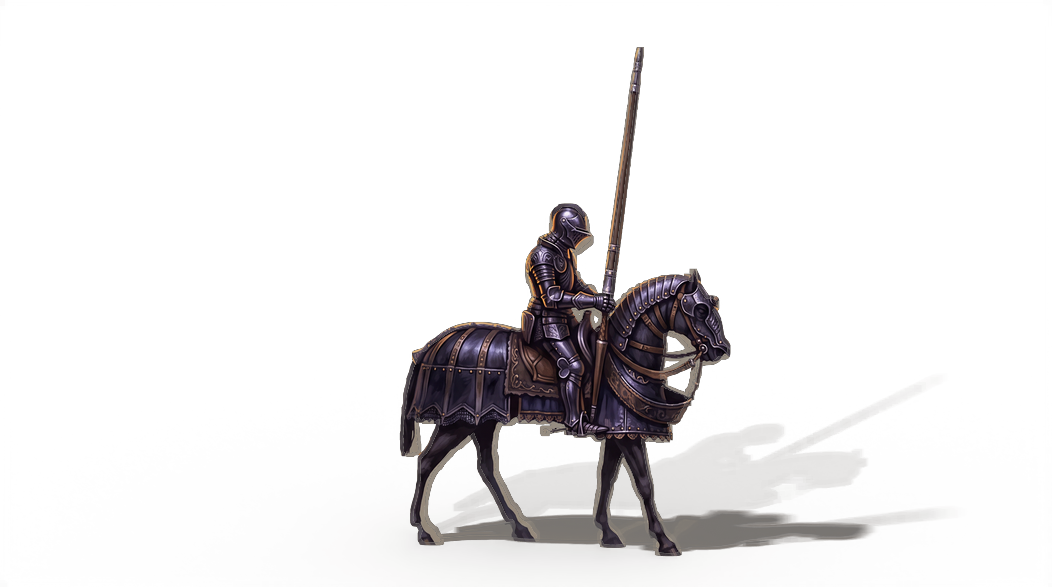
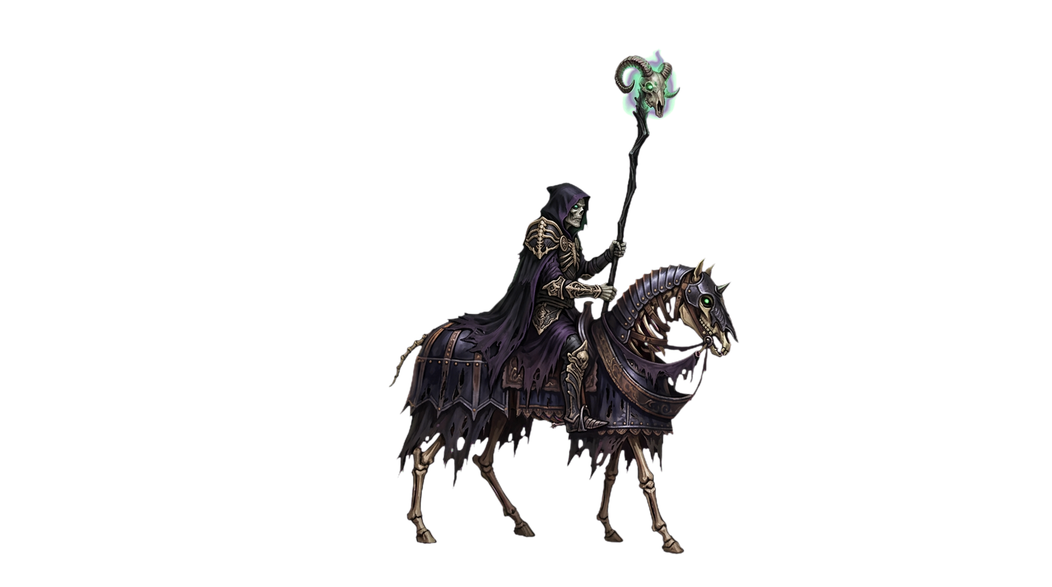
Battle stack spacing and badges, team-coloured queue, build card costs, hero backpack
- Battle: the middle deploy slot is staggered one hex forward, figures are a
  little smaller, count badges sit at the stack's front foot above all labels,
  damage labels step aside from badges, the turn queue is team-tinted with a
  larger active slot, and slain stacks leave the queue immediately.
- Necropolis battle hero repainted as a necromancer on a skeletal horse.
- Build dialog: cards show cost (shortfalls in red) and muted status strips;
  the hover panel sits beside the card.
- Hero screen: second ring socket, backpack row, larger text.
- Spellbook close seal moved; map hover drawn as corner brackets.

Changed region(s): [[0.365, 0.092, 0.8821, 0.9506]]

diff --git a/tools/art/hero_battle_paint.py b/tools/art/hero_battle_paint.py
@@ -1,0 +1,74 @@
+"""Necropolis battle hero: a necromancer lord on a skeletal horse (it was a recoloured copy of the Haven knight).
+python tools/art/hero_battle_paint.py paint   ->  imagegen/batch18/out/battle_necropolis.png (over the old rider on magenta)
+python tools/art/hero_battle_paint.py ingest  ->  assets/heroes/battle_necropolis.png (same canvas and feet line as before;
+                                                  the old sprite is kept in tools/art/raw/heroes/)"""
+import os, sys, shutil
+import numpy as np
+from PIL import Image
+
+sys.path.insert(0, os.path.dirname(__file__))
+from pose_paint import key_out, drop_specks
+
+BATCH = "imagegen/batch18"
+SRC = "assets/heroes/battle_necropolis.png"
+OLD = "tools/art/raw/heroes/battle_necropolis_knight.png"
+PROMPT = ("Repaint this rider as the lord of an undead army in a fantasy strategy game, same side view facing right, "
+          "same size, same position and same pose: a gaunt necromancer lord in a tattered black and deep purple hooded "
+          "cloak over dark bone-trimmed armour, a pale skull-like face under the hood, holding upright a tall black "
+          "staff topped with a horned skull and a faint green glow, riding a skeletal undead war horse with bare "
+          "ribs and leg bones, ragged black barding, and small glowing green eyes. Hand-painted fantasy game art with "
+          "crisp edges and rich detail, lit from the upper left. Keep the background flat pure magenta (#FF00FF), "
+          "no ground, no shadow, no text.")
+
+
+def _figure():
+    im = Image.open(OLD if os.path.exists(OLD) else SRC).convert("RGBA")
+    return im
+
+
+def paint():
+    import vertex_paint as vp
+    from google import genai
+    os.makedirs(f"{BATCH}/in", exist_ok=True)
+    os.makedirs(f"{BATCH}/out", exist_ok=True)
+    os.makedirs(os.path.dirname(OLD), exist_ok=True)
+    if not os.path.exists(OLD):
+        shutil.copy(SRC, OLD)
+    im = _figure()
+    a = np.asarray(im).copy()
+    a[..., 3] = np.where(a[..., 3] > 200, 255, 0)  # the rider only, not its cast shadow
+    fig = Image.fromarray(a)
+    x0, y0, x1, y1 = fig.getbbox()
+    pad = 60
+    crop = fig.crop((x0 - pad, y0 - pad, x1 + pad, y1 + pad))
+    bg = Image.new("RGBA", crop.size, (255, 0, 255, 255))
+    bg.alpha_composite(crop)
+    bg.convert("RGB").save(f"{BATCH}/in/battle_necropolis.png")
+    client = genai.Client(vertexai=True, project=vp.PROJECT, location=vp.LOCATION)
+    w, h = crop.size
+    img = vp.paint(client, "gemini-nano-banana-2.1", f"{BATCH}/in/battle_necropolis.png", PROMPT,
+                   "3:4" if w / h < 0.85 else ("1:1" if w / h < 1.15 else "4:3"), "1K")
+    if img:
+        img.save(f"{BATCH}/out/battle_necropolis.png")
+        print("done", img.size, "from", crop.size)
+
+
+def ingest():
+    old = _figure()
+    a = np.asarray(old)
+    ys, xs = np.nonzero(a[..., 3] > 200)
+    ox0, oy0, ox1, oy1 = xs.min(), ys.min(), xs.max(), ys.max()
+    new = drop_specks(key_out(Image.open(f"{BATCH}/out/battle_necropolis.png")))
+    new = new.crop(new.getbbox())
+    # same figure height and feet line as the old rider, centred on it
+    sc = (oy1 - oy0) / new.height
+    new = new.resize((max(1, round(new.width * sc)), oy1 - oy0), Image.LANCZOS)
+    out = Image.new("RGBA", old.size, (0, 0, 0, 0))
+    cx = (ox0 + ox1) // 2
+    out.alpha_composite(new, (max(0, cx - new.width // 2), int(oy0)))
+    out.save(SRC)
+    print("  heroes/battle_necropolis.png", new.size)
+
+
+if __name__ == "__main__":
+    {"paint": paint, "ingest": ingest}[sys.argv[1]]()

diff --git a/ASSETS.md b/ASSETS.md
@@ -38,6 +38,8 @@ leaves the `_dead` sprite on the hex as a corpse.
 - `heroes/portraits/<hero_id>.png` — 256x256 painted portrait (ids in `GameData.HEROES`).
 - `heroes/map_<faction>.png` — mounted hero on horse, 3/4 top-down view for the adventure map, transparent, 160x160, facing right.
 - `heroes/battle_<faction>.png` — hero on horse for the battle screen corner, transparent, ~300x300, facing right.
+  `battle_necropolis.png` (a necromancer on a skeletal horse) is painted over the old knight by
+  `tools/art/hero_battle_paint.py` (imagegen/batch18); the knight is kept in `tools/art/raw/heroes/`.
 - `heroes/flag_<color>.png` optional (color = red/blue/green/gold).
 
 ## Adventure map
